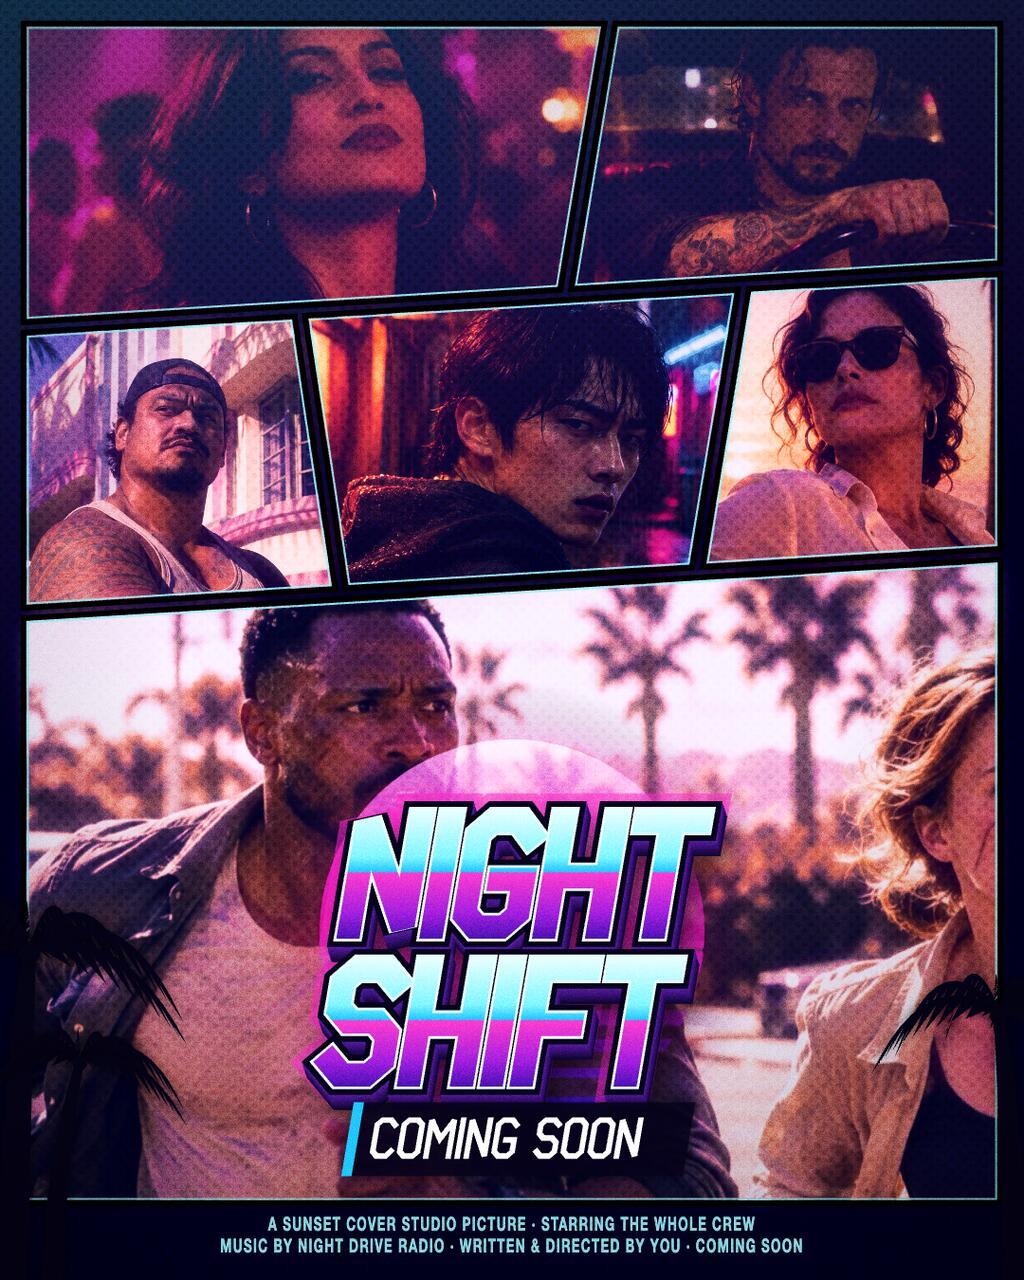
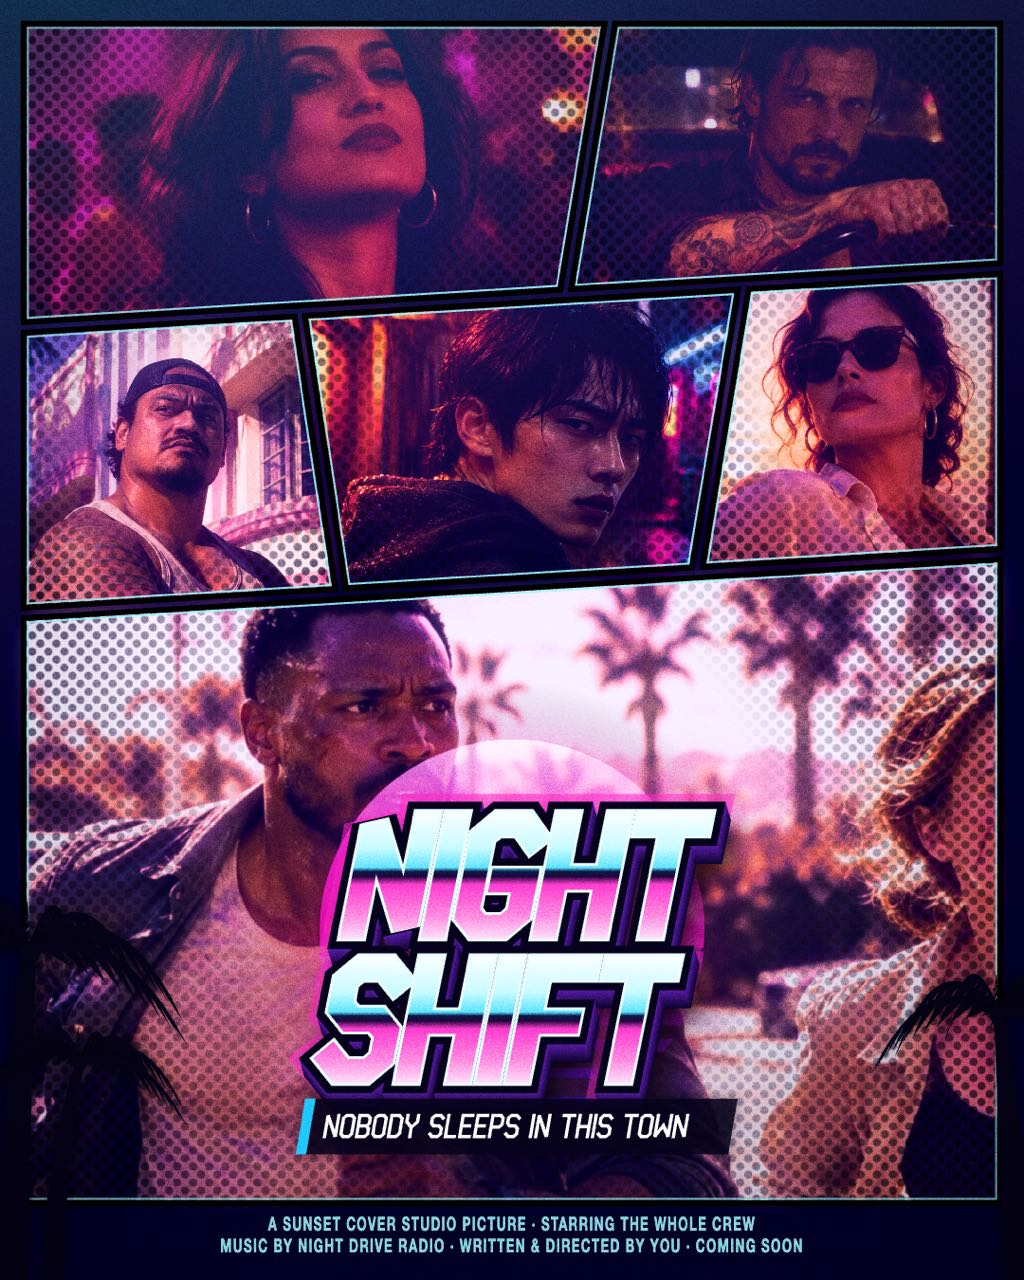
Bolder covers: punchier sunset/neon grades, chrome title lettering with thicker outline, comic halftone that fades off faces, palms on, new titles and taglines for each alternate

diff --git a/app/src/colorGrade.js b/app/src/colorGrade.js
@@ -12,33 +12,34 @@ export const GRADES = {
   sunset: {
     name: 'Sunset Strip',
     map: ['#14042a', '#4d0f5c', '#b8226a', '#ff6a3d', '#ffc56b', '#fff3d1'],
-    strength: 0.34, contrast: 1.12, shadowTint: '#0f5a6e', highTint: '#ffa04a', split: 0.3, sat: 1.12, skin: 0.7,
-    bg: '#10031c', border: '#ffe7c2', glow: 'rgba(255,120,60,0.55)',
-    leak: ['rgba(255,170,60,0.38)', 'rgba(255,40,120,0)'],
+    strength: 0.46, contrast: 1.16, shadowTint: '#3a0f7a', highTint: '#ff8a3a', split: 0.4, sat: 1.32, skin: 0.66,
+    bg: '#10031c', border: '#ffe7c2', glow: 'rgba(255,90,80,0.6)',
+    leak: ['rgba(255,150,50,0.44)', 'rgba(255,40,120,0)'],
     sun: ['#fff4a3', '#ffb03a', '#ff3d7f'],
-    fill: [[0, '#fffbe2'], [0.38, '#ffe066'], [0.49, '#ff9d1f'], [0.5, '#ff2f86'], [0.78, '#c21fbf'], [1, '#6a14c9']],
-    outline: '#170420', ring: '#fff1d6', extrude: ['#a3165e', '#2a0430'], palm: '#16031f',
+    // Chrome: a white-hot top, a dark horizon band at the middle, then a sunset reflection below it.
+    fill: [[0, '#ffffff'], [0.22, '#fff3cf'], [0.44, '#ffbe55'], [0.47, '#7a2a12'], [0.5, '#2a0838'], [0.56, '#ff3d7f'], [0.8, '#ff8f3a'], [1, '#ffe37a']],
+    outline: '#12021a', ring: '#fff6e0', extrude: ['#8a1450', '#1a0220'], palm: '#16031f',
     tagFill: '#ffffff', tagPlate: 'rgba(18,4,30,0.86)', accent: '#ff3d7f',
   },
   neon: {
     name: 'Neon Night',
     map: ['#04021a', '#1b0a52', '#5c16a8', '#e1249c', '#ff8ad6', '#b8fbff'],
-    strength: 0.42, contrast: 1.16, shadowTint: '#1a2a8c', highTint: '#ff7ad0', split: 0.34, sat: 1.15, skin: 0.6,
+    strength: 0.5, contrast: 1.18, shadowTint: '#2a1a9c', highTint: '#ff6ad0', split: 0.4, sat: 1.32, skin: 0.6,
     bg: '#05021a', border: '#9ff6ff', glow: 'rgba(255,40,200,0.55)',
     leak: ['rgba(80,220,255,0.30)', 'rgba(200,30,255,0)'],
     sun: ['#ffd6ff', '#ff4fd8', '#7a2bff'],
-    fill: [[0, '#f0ffff'], [0.38, '#7ff6ff'], [0.49, '#1ec8ff'], [0.5, '#ff3ccf'], [0.8, '#a61fe0'], [1, '#4b10b8']],
+    fill: [[0, '#ffffff'], [0.3, '#c8fbff'], [0.45, '#5fe4ff'], [0.48, '#0b1a4a'], [0.52, '#20063a'], [0.58, '#ff3ccf'], [0.82, '#ff8ae0'], [1, '#ffe0fa']],
     outline: '#06021c', ring: '#e8fdff', extrude: ['#5a1aa8', '#0c0330'], palm: '#05021a',
     tagFill: '#ffffff', tagPlate: 'rgba(6,2,28,0.86)', accent: '#1ec8ff',
   },
   miami: {
     name: 'Miami Teal',
     map: ['#032029', '#0a4f60', '#14999c', '#ff7a98', '#ffc79c', '#fff7ea'],
-    strength: 0.3, contrast: 1.12, shadowTint: '#00807e', highTint: '#ff9a7a', split: 0.36, sat: 1.1, skin: 0.7,
+    strength: 0.42, contrast: 1.14, shadowTint: '#00807e', highTint: '#ff7a9a', split: 0.4, sat: 1.28, skin: 0.66,
     bg: '#031a22', border: '#fff2e2', glow: 'rgba(255,140,160,0.5)',
     leak: ['rgba(255,190,150,0.32)', 'rgba(20,200,200,0)'],
     sun: ['#fff6d8', '#ffab8a', '#ff5f8f'],
-    fill: [[0, '#fffaf2'], [0.38, '#ffd0b0'], [0.49, '#ff8fa6'], [0.5, '#25d6cf'], [0.8, '#0f9aa6'], [1, '#08606e']],
+    fill: [[0, '#ffffff'], [0.3, '#ffe6ee'], [0.45, '#ff8fb0'], [0.48, '#3a0a2a'], [0.52, '#062a34'], [0.58, '#25d6cf'], [0.82, '#9ff4ea'], [1, '#ffffff']],
     outline: '#03161e', ring: '#fff5ea', extrude: ['#0d6b78', '#021820'], palm: '#02161d',
     tagFill: '#ffffff', tagPlate: 'rgba(3,22,30,0.86)', accent: '#ff7a98',
   },
@@ -289,21 +290,46 @@ export function drawGrain(ctx, w, h, amount, scale = 1) {
   ctx.restore();
 }
 
-/** A diagonal halftone dot screen, multiplied into the shadows. `cell` is the dot spacing in pixels. */
-export function drawHalftone(ctx, w, h, cell, amount) {
+/**
+ * A comic-print halftone: a diagonal screen of dots in `color` (spacing `cell` px), multiplied into each panel. Every
+ * panel gets its own mask, clear in the middle (where the face sits) and dense towards its edges and corners, so the
+ * dots read as print texture without speckling anyone's face.
+ */
+export function drawHalftone(ctx, w, h, cell, amount, panels, color = '#000') {
   const tile = new OffscreenCanvas(Math.ceil(cell), Math.ceil(cell));
   const t = tile.getContext('2d');
-  t.fillStyle = '#000';
+  t.fillStyle = color;
   t.beginPath();
-  t.arc(cell / 2, cell / 2, cell * 0.3, 0, Math.PI * 2);
+  t.arc(cell / 2, cell / 2, cell * 0.36, 0, Math.PI * 2);
   t.fill();
-  ctx.save();
-  ctx.globalCompositeOperation = 'soft-light';
-  ctx.globalAlpha = amount;
-  const p = ctx.createPattern(tile, 'repeat');
+  const dots = new OffscreenCanvas(w, h);
+  const d = dots.getContext('2d');
+  const p = d.createPattern(tile, 'repeat');
   p.setTransform(new DOMMatrix().rotate(45));
-  ctx.fillStyle = p;
-  ctx.fillRect(0, 0, w, h);
+  d.fillStyle = p;
+  d.fillRect(0, 0, w, h);
+  const mask = new OffscreenCanvas(w, h);
+  const m = mask.getContext('2d');
+  for (const { poly, bbox } of panels) {
+    const cx = bbox.x + bbox.w / 2, cy = bbox.y + bbox.h * 0.42, r = Math.hypot(bbox.w, bbox.h) / 2;
+    const g = m.createRadialGradient(cx, cy, r * 0.42, cx, cy, r * 1.02);
+    g.addColorStop(0, 'rgba(0,0,0,0)');
+    g.addColorStop(1, 'rgba(0,0,0,1)');
+    m.save();
+    m.beginPath();
+    poly.forEach(([x, y], i) => (i ? m.lineTo(x, y) : m.moveTo(x, y)));
+    m.closePath();
+    m.clip();
+    m.fillStyle = g;
+    m.fillRect(bbox.x, bbox.y, bbox.w, bbox.h);
+    m.restore();
+  }
+  d.globalCompositeOperation = 'destination-in';
+  d.drawImage(mask, 0, 0);
+  ctx.save();
+  ctx.globalCompositeOperation = 'multiply';
+  ctx.globalAlpha = amount;
+  ctx.drawImage(dots, 0, 0);
   ctx.restore();
 }
 

diff --git a/main.ts b/main.ts
@@ -3,9 +3,9 @@
 // The app is this directory's app/ folder: plain static files a desktop browser loads offline (app/index.html and
 // its ES modules, no library, no font file and no network request). It turns your own photos and a caption into a
 // crime-epic style multi-panel poster: slanted panels with crisp black gutters, a film-style grade that keeps skin
-// warm (split-tone plus a partial sunset / neon gradient map, glow, fine grain), face-aware auto-crops that keep every
-// face clear of the title and sun, hand-drawn path lettering with gradient fill, outline, extrusion and shadow, and a
-// credits block, exported as a PNG in 1920x1080, 1080x1080 or 1080x1350. This program hands it in: it copies app/ and screenshots/ from beside this file
+// readable under a bold sunset / neon gradient map (glow, grain, comic halftone dots that fade away from faces, palm
+// silhouettes), face-aware auto-crops that keep every face clear of the title and sun, hand-drawn chrome lettering
+// with a thick outline, extrusion, drop shadow and a tagline strap, and a credits block, exported as a PNG in 1920x1080, 1080x1080 or 1080x1350. This program hands it in: it copies app/ and screenshots/ from beside this file
 // to /output and writes /output/dossier.json, the summary the judge reads, with the vendored make.fun library.
 // The sample photos in app/samples/ are free to use: AI-generated photos of fictional people, made for this entry,
 // plus the starter's own boulevard and pier shots. Add several photos at once and they fill the panels, hero first.

diff --git a/app/index.html b/app/index.html
@@ -35,11 +35,11 @@
     <section>
       <h2><span>2</span> Caption</h2>
       <label class="field">Title <small>(Enter for a new line)</small>
-        <textarea id="title" rows="2" maxlength="40">Sunset
-Streets</textarea>
+        <textarea id="title" rows="2" maxlength="40">Last
+Resort</textarea>
       </label>
       <label class="field">Tagline
-        <input id="tagline" type="text" maxlength="48" value="Coming soon">
+        <input id="tagline" type="text" maxlength="48" value="Everybody's got a price">
       </label>
       <label class="field">Credits <small>(the small print under the panels)</small>
         <textarea id="credits" class="small" rows="2" maxlength="160"></textarea>
@@ -57,8 +57,8 @@ Streets</textarea>
       <label class="slider">Grade strength <input id="intensity" type="range" min="0" max="1" step="0.01" value="1"></label>
       <div class="toggles">
         <label><input id="fx-sun" type="checkbox" checked> Sun</label>
-        <label><input id="fx-palms" type="checkbox"> Palms</label>
-        <label><input id="fx-halftone" type="checkbox"> Halftone</label>
+        <label><input id="fx-palms" type="checkbox" checked> Palms</label>
+        <label><input id="fx-halftone" type="checkbox" checked> Halftone</label>
         <label><input id="fx-grain" type="checkbox" checked> Grain</label>
       </div>
     </section>

diff --git a/app/src/renderCover.js b/app/src/renderCover.js
@@ -38,9 +38,9 @@ function drawCredits(ctx, text, foot, s, grade) {
 /** Title and tagline lettering styles for a grade. */
 function titleStyle(grade) {
   return {
-    weight: 1.75, track: 0.5, skew: 0.17, lead: 1.4, fill: grade.fill,
-    outline: grade.outline, outlineW: 0.62, ring: grade.ring, ringW: 0.2,
-    extrude: grade.extrude, depth: [0.55, 1.15], shadow: 'rgba(0,0,0,0.7)', glow: grade.glow,
+    weight: 1.85, track: 0.45, skew: 0.2, lead: 1.35, fill: grade.fill,
+    outline: grade.outline, outlineW: 0.8, ring: grade.ring, ringW: 0.22,
+    extrude: grade.extrude, depth: [0.7, 1.4], shadow: 'rgba(0,0,0,0.85)', glow: grade.glow,
   };
 }
 
@@ -133,7 +133,7 @@ export function renderCover(canvas, state) {
   const t = layout.title;
   // The sun sits right behind the lettering (auto-fill keeps faces out of its disc), so it frames the title.
   if (state.fx.sun) drawSun(ctx, layout.sun.cx, layout.sun.cy, layout.sun.r, grade);
-  if (state.fx.halftone) drawHalftone(ctx, w, h, Math.max(4, s * 0.0085), 0.3);
+  if (state.fx.halftone) drawHalftone(ctx, w, h, Math.max(5, s * 0.011), 0.85, layout.panels, grade.extrude[1]);
 
   // 3. Frames, palms, vignette, then the credits strip along the bottom.
   drawPanelFrames(ctx, layout.panels, grade, s);

diff --git a/app/src/editor.js b/app/src/editor.js
@@ -20,10 +20,10 @@ const state = {
   size: 'landscape',
   grade: 'sunset',
   intensity: 1,
-  title: 'Sunset\nStreets',
-  tagline: 'Coming soon',
+  title: 'Last\nResort',
+  tagline: "Everybody's got a price",
   credits: DEFAULT_CREDITS,
-  fx: { sun: true, palms: false, grain: true, halftone: false },
+  fx: { sun: true, palms: true, grain: true, halftone: true },
 };
 let selected = 0;
 let layout = null;
